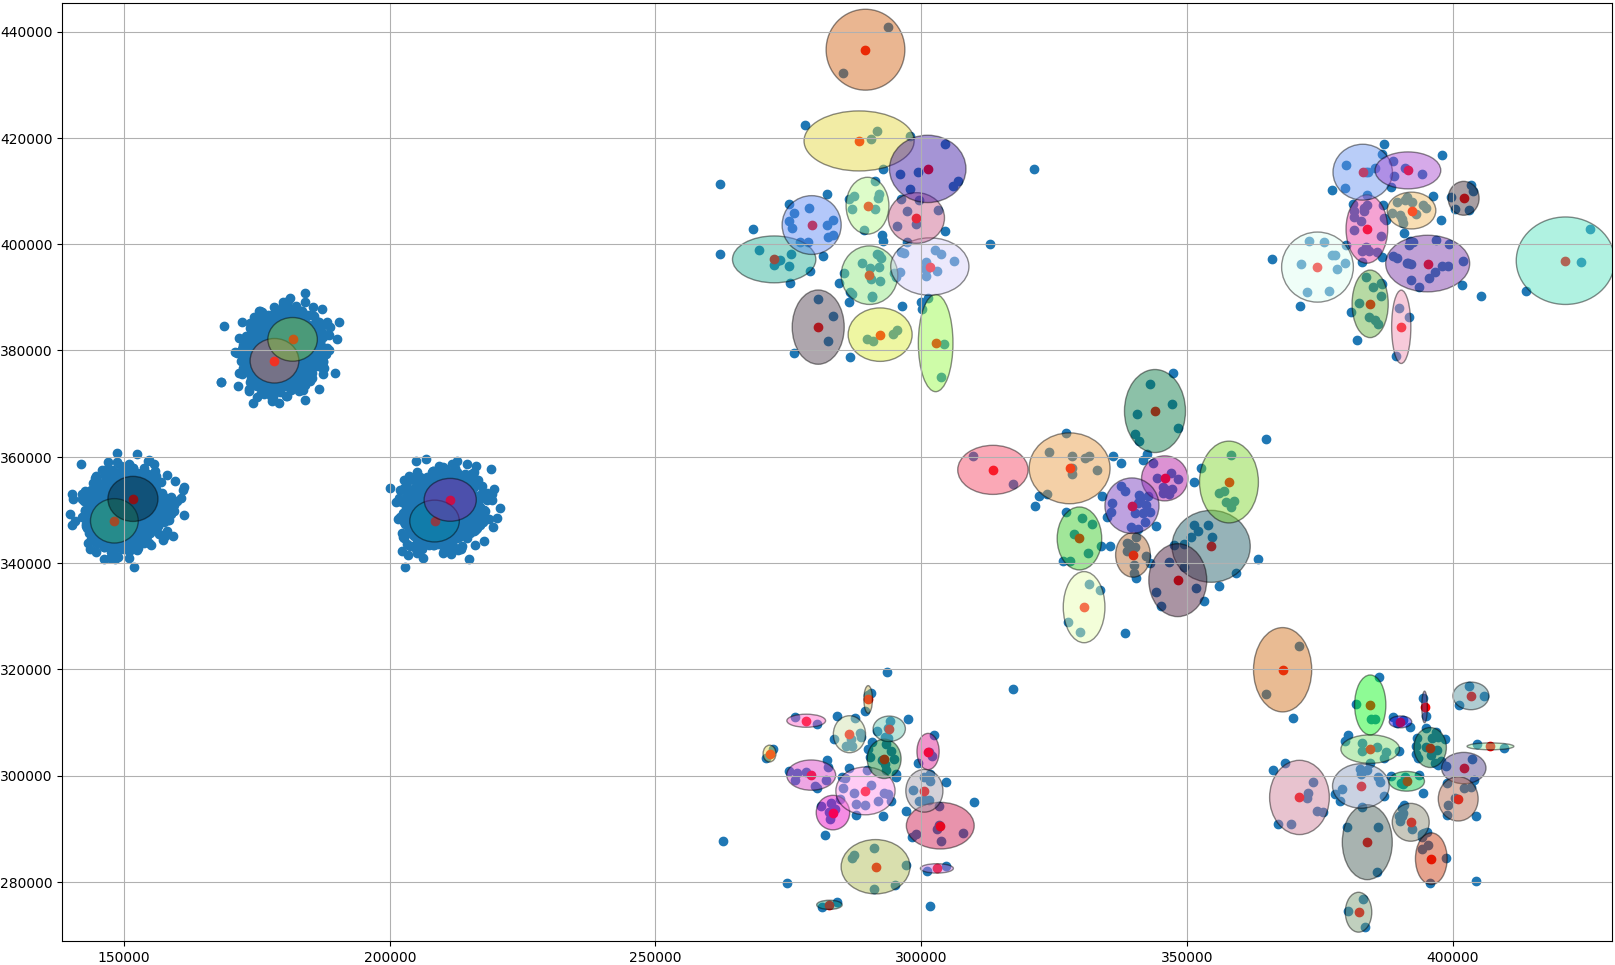
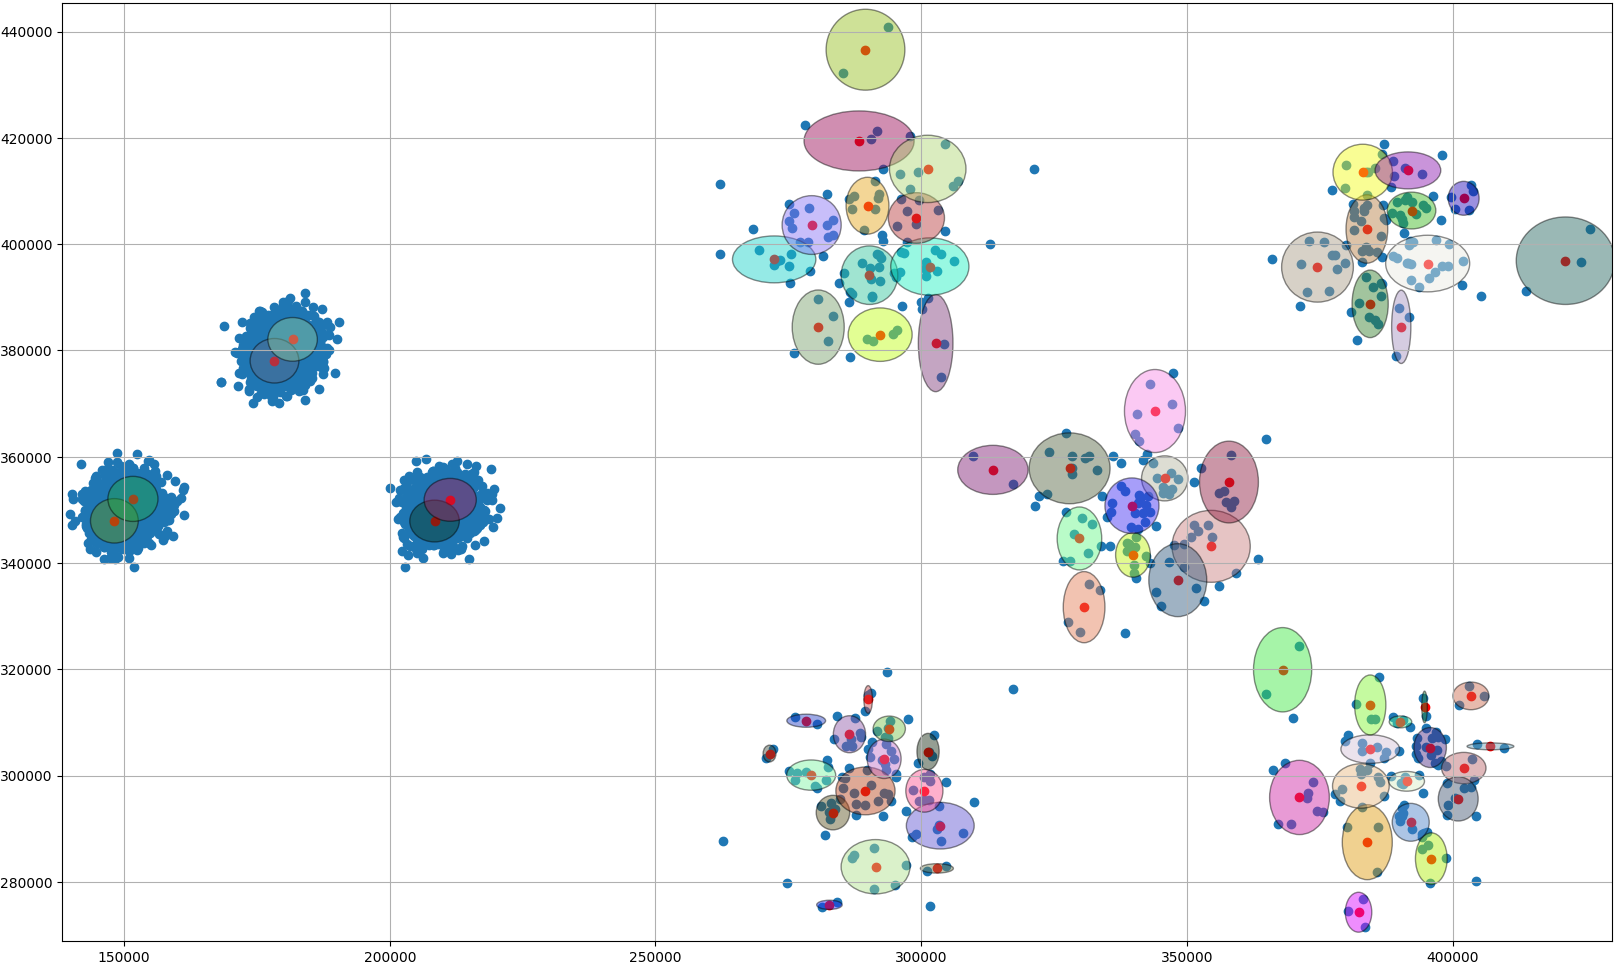
Fix code, add some pics

diff --git a/src/dbb.py b/src/dbb.py
@@ -56,14 +56,16 @@ def find_ellipses(centroids, clusters):
             continue
 
         # fitting data
-        ((xmean, xvar), (ymean, yvar)) = (norm.fit(xs), norm.fit(ys))
+        ((xmean, xstd), (ymean, ystd)) = (norm.fit(xs), norm.fit(ys))
 
         # compute density value (y) in mean point
-        dmx.append(normpdf([xmean], xmean, xvar))
-        dmy.append(normpdf([ymean], ymean, yvar))
+        probx = normpdf([xmean], xmean, xstd)
+        proby = normpdf([ymean], ymean, ystd)
+        dmx.append(probx)
+        dmy.append(proby)
 
         # Save clusters mean and std
-        c_density[c] = ((xmean, xvar), (ymean, yvar))
+        c_density[c] = ((xmean, xstd, probx), (ymean, ystd, proby))
 
     # Compute dataset mean and std in mean points
     xm = (np.nanmean(dmx), np.nanstd(dmx))
@@ -71,9 +73,10 @@ def find_ellipses(centroids, clusters):
 
     # Inject normalized density
     return list((c, (
-        (xmean, xvar, fabs(normpdf([xmean], xmean, xvar) - xm[0]) / xm[1]),
-        (ymean, yvar, fabs(normpdf([ymean], ymean, yvar) - ym[0]) / ym[1])
-    )) for (c, ((xmean, xvar), (ymean, yvar))) in c_density.iteritems())
+        (xmean, xstd, fabs(probx - xm[0]) / xm[1]),
+        (ymean, ystd, fabs(proby - ym[0]) / ym[1])
+    )) for (c, ((xmean, xstd, probx), (ymean, ystd, proby)))
+       in c_density.iteritems())
 
 
 def find_merges(ellipses):

diff --git a/src/graphics.py b/src/graphics.py
@@ -86,10 +86,10 @@ def plot_density_ellipses(xs, ys, ellipses, dname, i, picbound):
     # The points
     ax.scatter(xs, ys)
 
-    # The ellipsis
-    for (c, ((xmean, xvar, wx), (ymean, yvar, wy))) in ellipses:
+    # The ellipses
+    for (c, ((xmean, xstd, wx), (ymean, ystd, wy))) in ellipses:
         loc = (xmean, ymean)
-        w, h = get_EIA((c, ((xmean, xvar, wx), (ymean, yvar, wy))))
+        w, h = get_EIA((c, ((xmean, xstd, wx), (ymean, ystd, wy))))
         ellipse = Ellipse(xy=loc, width=w, height=h, color='black')
         ellipse.set_alpha(0.45)
         ellipse.set_facecolor(rnd.rand(3))
